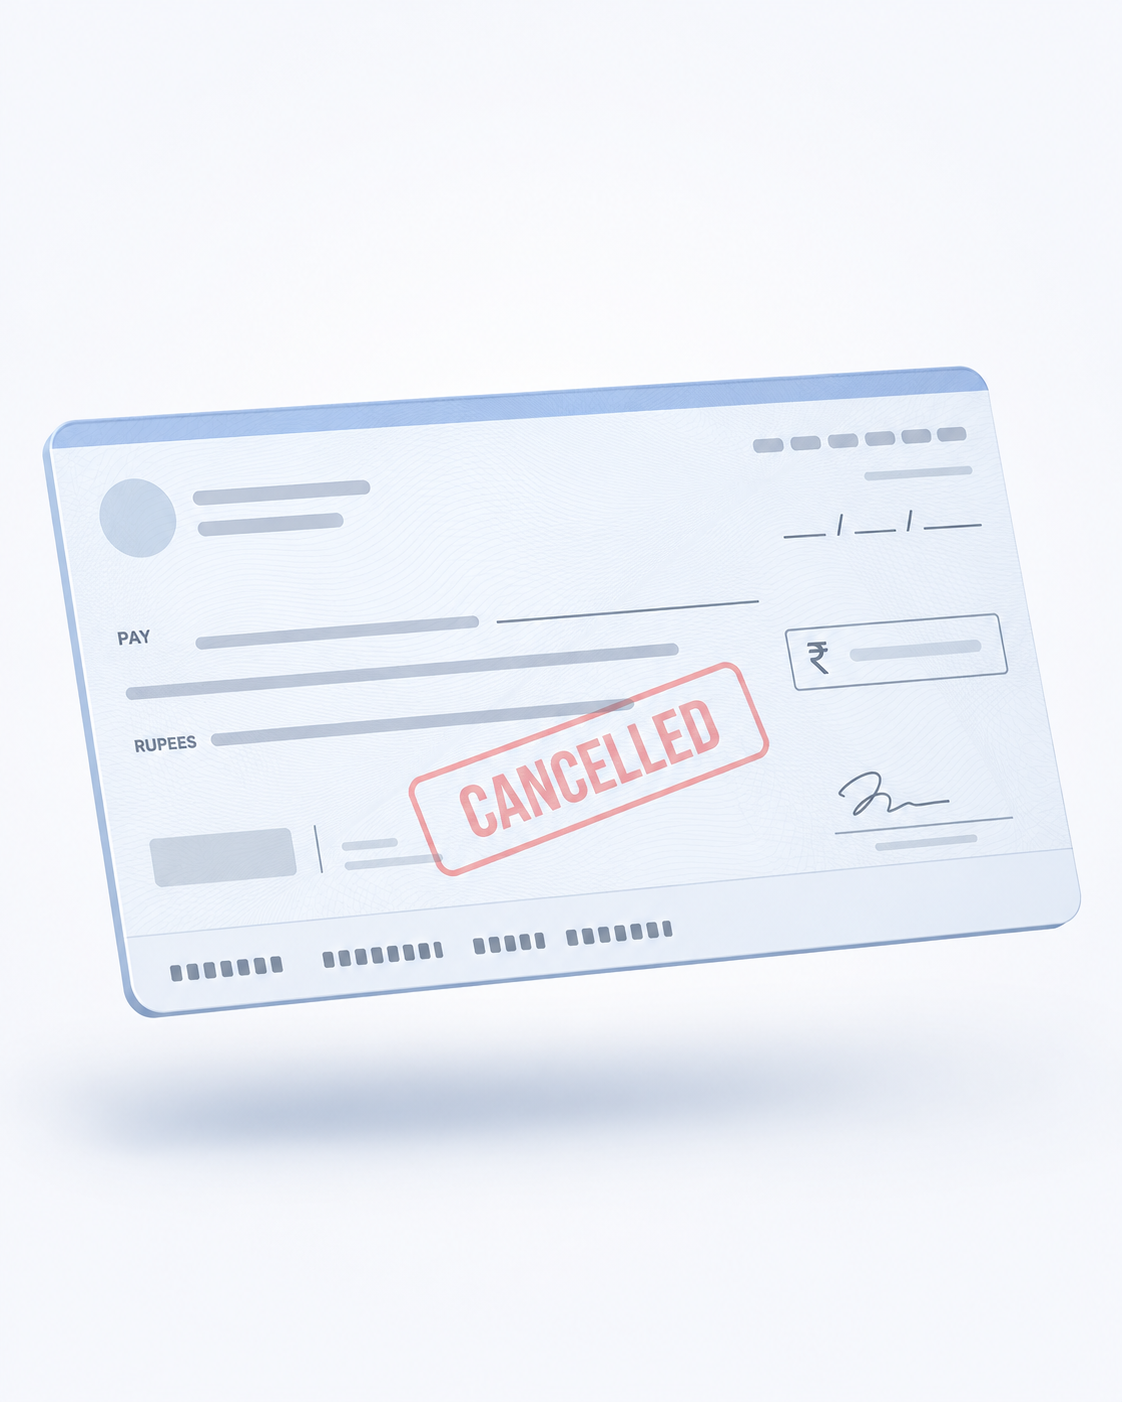
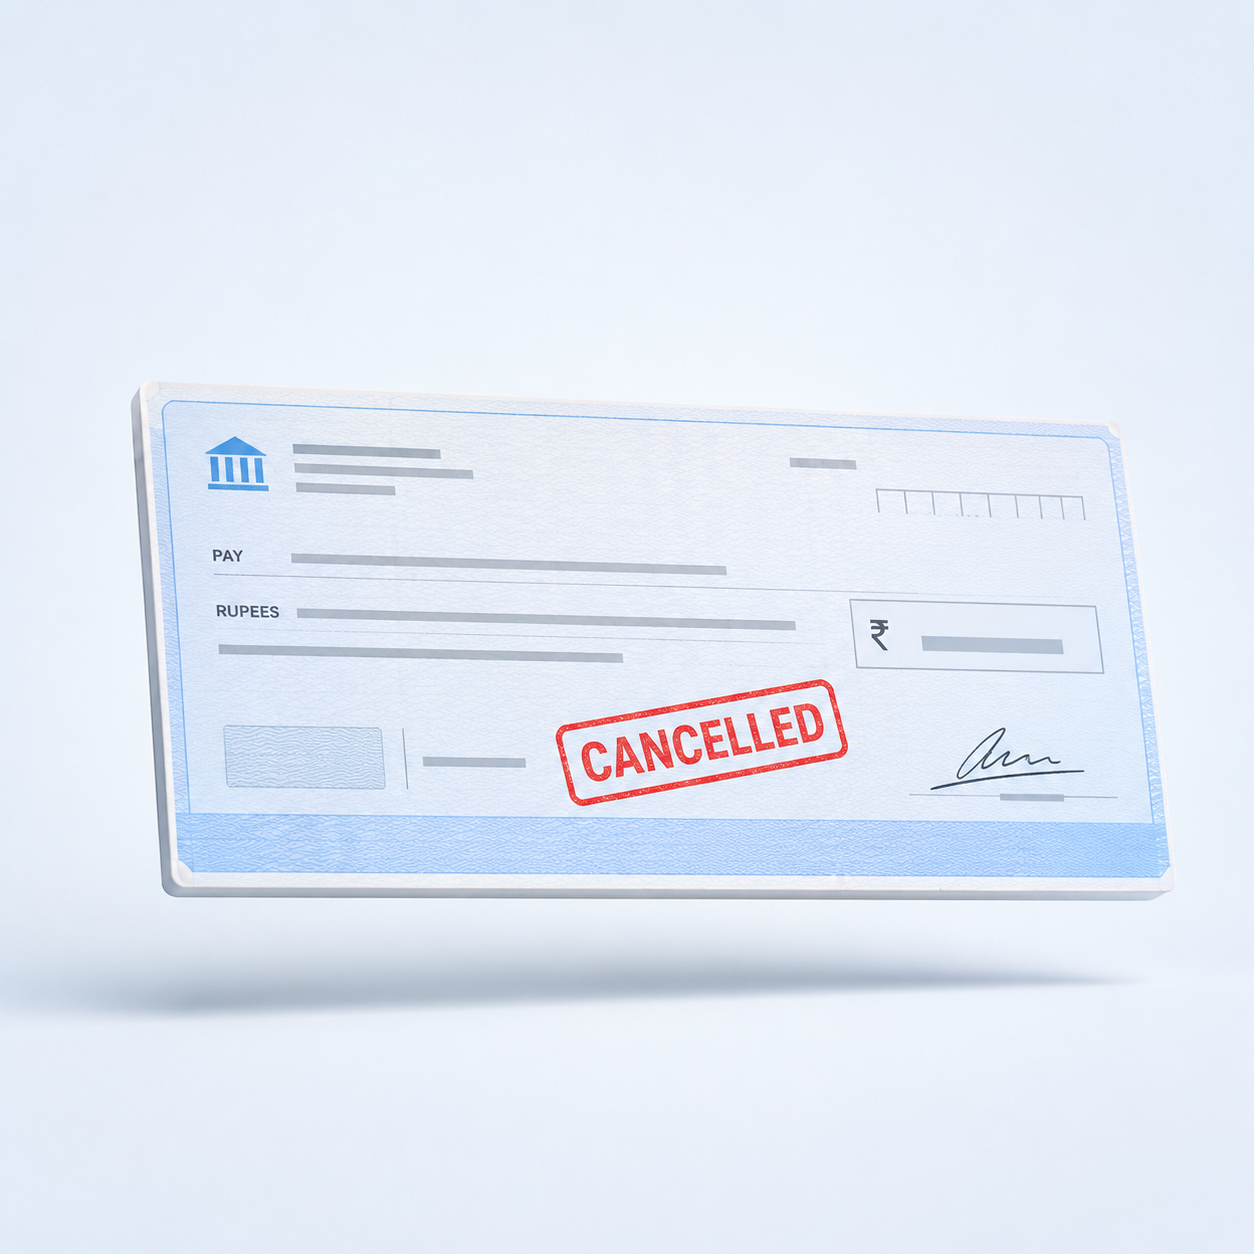
Refresh document card visuals

Changed region(s): [[0.0312, 0.2488, 0.9358, 0.7464], [0.4679, 0.7464, 0.8734, 0.8086], [0.0, 0.7464, 0.2184, 0.8086]]

diff --git a/apps/web-portal/components/document-visual-card.tsx b/apps/web-portal/components/document-visual-card.tsx
@@ -17,7 +17,7 @@ type DocumentVisualCardProps = {
   compact?: boolean;
 };
 
-const assets: Record<string, { src: string; alt: string; fit?: "contain" | "cover" }> = {
+const assets: Record<string, { src: string; alt: string; position?: string }> = {
   aadhaar_front: { src: "/document-assets/aadhaar-card.png", alt: "Aadhaar card front visual" },
   aadhaar_back: { src: "/document-assets/pan-card.png", alt: "Aadhaar card back visual" },
   representative_aadhaar_front: { src: "/document-assets/aadhaar-card.png", alt: "Aadhaar card front visual" },
@@ -76,19 +76,20 @@ export function DocumentVisualCard({
   return (
     <article id={id} className={`group relative overflow-hidden rounded-[22px] border shadow-[0_24px_60px_rgba(15,23,42,0.07)] transition hover:-translate-y-1 hover:shadow-[0_34px_76px_rgba(15,23,42,0.1)] ${toneClasses[resolvedTone]}`}>
       {clickTargetId ? <label htmlFor={clickTargetId} className="absolute inset-0 z-10 cursor-pointer" aria-label={`Upload ${title}`} /> : null}
-      <div className={`relative overflow-hidden bg-[radial-gradient(circle_at_50%_34%,#FFFFFF_0%,#F9FBFF_38%,#EDF4FF_100%)] ${compact ? "h-44" : "h-64"}`}>
+      <div className={`relative overflow-hidden bg-white ${compact ? "h-52" : "h-72"}`}>
         <Image
           src={asset.src}
           alt={asset.alt}
           fill
           sizes={compact ? "(max-width: 768px) 100vw, 360px" : "(max-width: 768px) 100vw, 460px"}
-          className={`scale-[1.34] drop-shadow-[0_30px_34px_rgba(15,23,42,0.2)] transition duration-300 group-hover:scale-[1.4] ${asset.fit === "cover" ? "object-cover" : "object-contain"}`}
+          className="object-cover transition duration-300 group-hover:scale-[1.015]"
+          style={{ objectPosition: asset.position ?? "center" }}
         />
         <div className="absolute left-3 top-3 flex items-center gap-1.5">
           <span className={`rounded-full border px-2 py-1 text-[8.5px] font-bold uppercase tracking-[0.04em] ${badgeClasses[resolvedTone]}`}>{label}</span>
         </div>
       </div>
-      <div className="absolute inset-x-3 bottom-3 z-20 rounded-2xl border border-white/80 bg-white/88 p-3 shadow-[0_16px_38px_rgba(15,23,42,0.12)] backdrop-blur-md">
+      <div className="absolute inset-x-3 bottom-3 z-20 rounded-2xl border border-white/75 bg-white/82 p-3 shadow-[0_16px_38px_rgba(15,23,42,0.12)] backdrop-blur-sm">
         <div className="flex items-center justify-between gap-3">
           <div className="min-w-0">
             <h3 className="truncate text-[12px] font-semibold text-[#0F172A]">{title}{required ? <span className="ml-1 text-red-500">*</span> : null}</h3>
